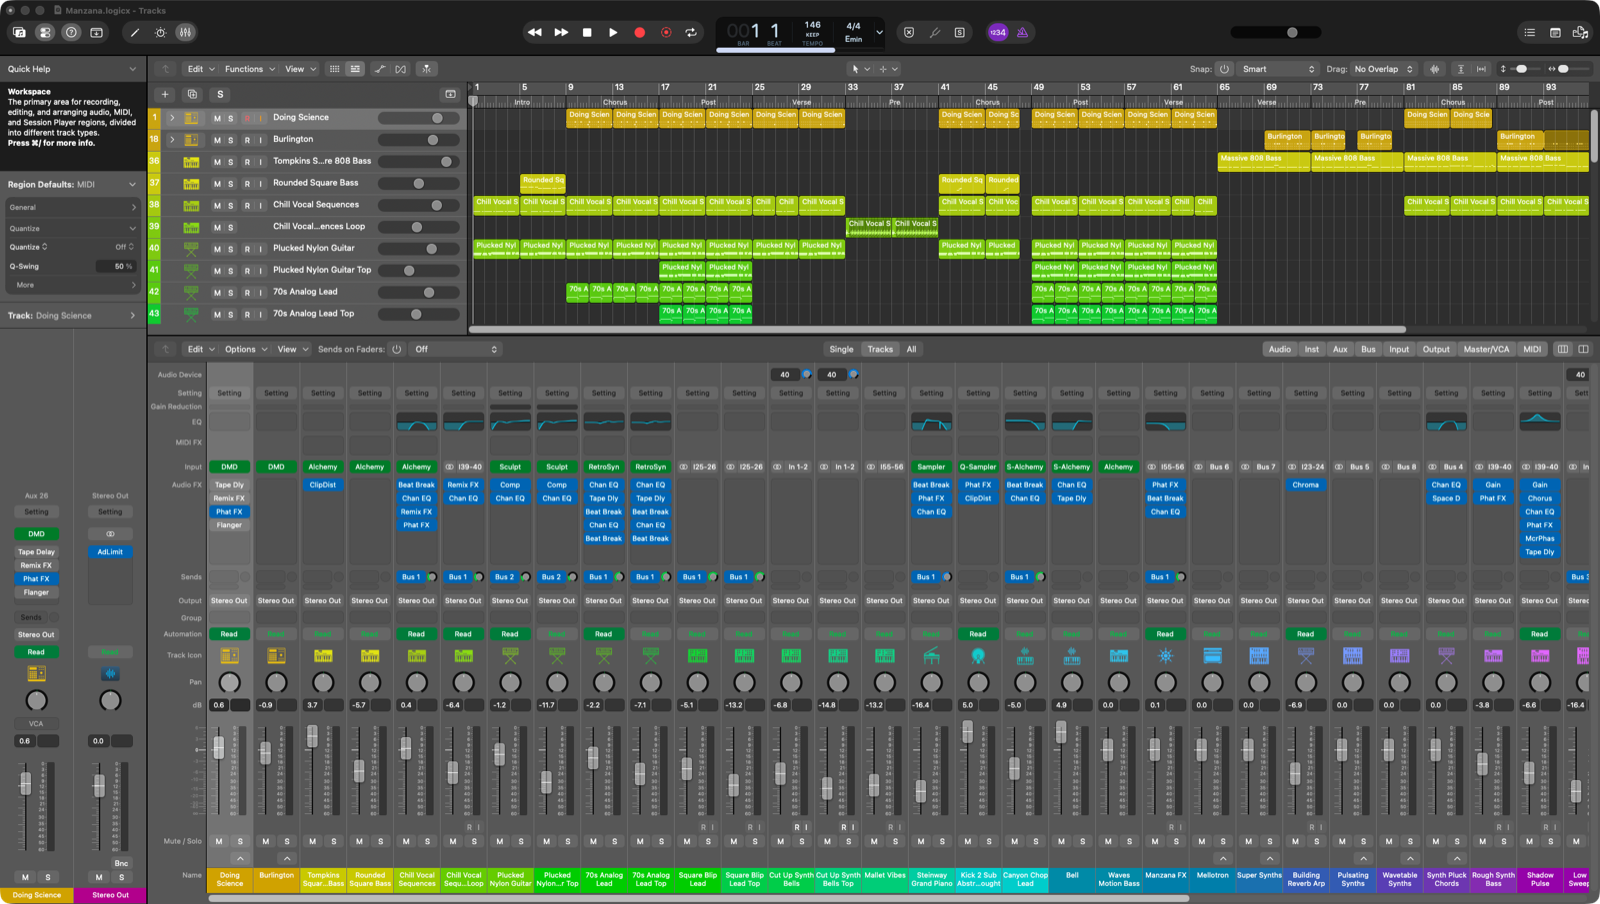
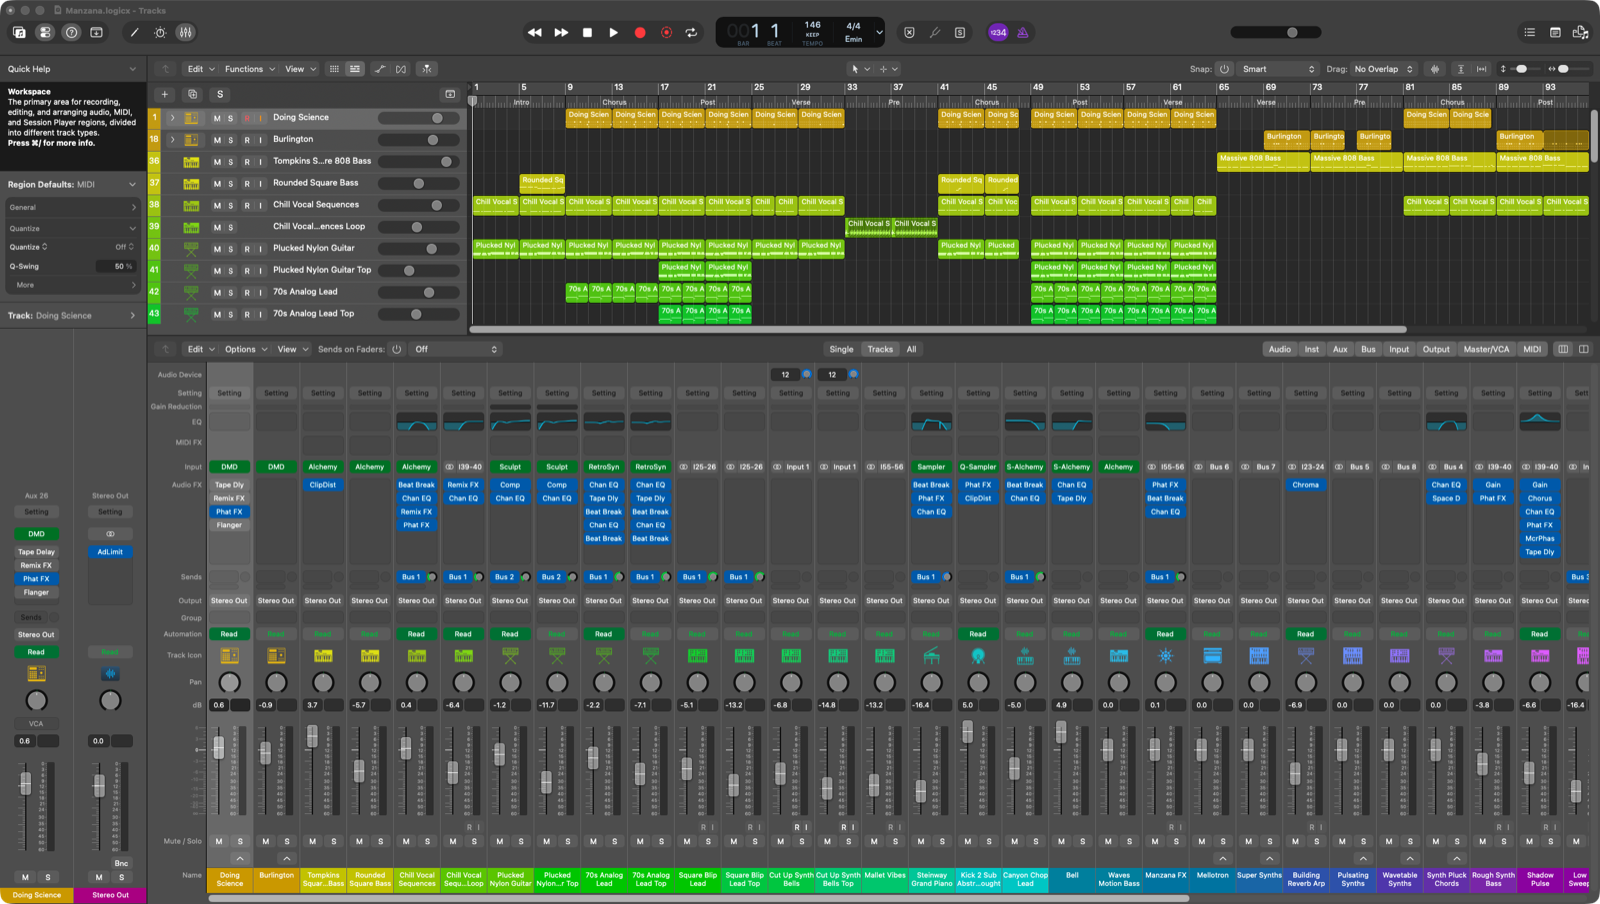
fix: Make the title bar gray in Classic mode (#17)

diff --git a/theme/light-theme.m b/theme/light-theme.m
@@ -399,6 +399,8 @@ static CGColorRef copyClassicColor(CGColorRef color, NSString *name) {
          @"GlobalTracksBackground": @"Colors/RulerColor",
          @"BackgroundViewControlbar": @"Colors/PanelHeaderColor",
          @"BackgroundLocalMenubar": @"Colors/PanelHeaderColor",
+         // The only black that classic mode changes. The control bar line and the pane dividers use it.
+         @"DividerDarkStrong": @"Colors/MainWindow/BackgroundBottomLineGray",
          @"ChannelstripBackground": @"Colors/TrackHeader/Background",
          @"ChannelstripBackgroundSelected": @"Colors/TrackHeader/SelectedBackground",
       };
@@ -1272,13 +1274,15 @@ static void hookButtonImage(NSButtonCell *cell, SEL sel, NSImage *image, NSRect 
    ((void (*)(id, SEL, NSImage *, NSRect, NSView *))origButtonImage)(cell, sel, isActive ? whiteGlyph(image) : image, frame, view);
 }
 
-// The macOS 26 title bar is glass, which is white in Aqua. A transparent title bar shows the
-// window background. The main window uses the mapped BackgroundViewControlbar color, but the
-// editor windows use the system windowBackgroundColor, which the theme does not map.
+// The macOS 26 title bar is glass, which is white in Aqua and near black in DarkAqua. A
+// transparent title bar shows the window background. The main window uses the mapped
+// BackgroundViewControlbar color. The editor windows use the system windowBackgroundColor,
+// which the light theme does not map, so they get BackgroundViewControlbar too. Classic mode
+// keeps the dark system gray, so it does not change the window background.
 static void hookOrderWindow(NSWindow *window, SEL sel, NSWindowOrderingMode place, NSInteger other) {
    if (place != NSWindowOut && (window.styleMask & NSWindowStyleMaskTitled) && !window.titlebarAppearsTransparent) {
       window.titlebarAppearsTransparent = YES;
-      if ([window.backgroundColor isEqual:NSColor.windowBackgroundColor]) {
+      if (!isClassic && [window.backgroundColor isEqual:NSColor.windowBackgroundColor]) {
          window.backgroundColor = [NSColor colorNamed:@"BackgroundViewControlbar"];
       }
    }
@@ -1601,6 +1605,8 @@ __attribute__((constructor)) static void start(void) {
    isClassic = readSetting("LP_CLASSIC", @"classic", 0, 0, 1) >= 0.5;
    if (isClassic) {
       origCGColor = swapInstanceMethod(NSClassFromString(@"CUINamedColor"), @selector(cgColor), (IMP)hookCGColor);
+      // The dark glass title bar is near black. A transparent title bar shows the classic gray.
+      origOrderWindow = swapInstanceMethod([NSWindow class], @selector(orderWindow:relativeTo:), (IMP)hookOrderWindow);
       reportStart();
       if (getenv("LP_OUT")) {
          outDir = [NSString stringWithUTF8String:getenv("LP_OUT")];

diff --git a/AGENTS.md b/AGENTS.md
@@ -86,14 +86,14 @@ All theme code is in `theme/light-theme.m`. The constructor `start()` installs e
 - Appearance: `+[NSAppearance appearanceNamed:]` maps the dark names to light names, and `NSApp.appearance` stays `Aqua`.
 - Catalog colors: `-[CUINamedColor cgColor]` is the path for both AppKit and SwiftUI. `copyMappedColor` decides the result by color name. It tries `isBrightVariant`, `fixedGray`, `isAccent`, `isWell`, `isTransportText` and the gray mapping, in that order. Saturated colors do not change. Only the names with one appearance are mapped. At the first launch of each Logic Pro build, `listSingleAppearanceNames` reads them from the Logic Pro catalogs with `/usr/bin/assetutil`. It keeps them in `~/Library/Caches/io.github.karlingen.i-see-logic-pro`.
 - Gray mapping: `mapGray` calls `mapGrayLevel` in `theme/gray-rule.h`, which returns `surfaceMax * pow(1 - white, gamma)`. That header also holds the limits, `SELECTED_ROW_WHITE` and the preferences domain. `readSetting` reads the values from the environment (`LP_SURFACE_MAX`, `LP_GAMMA` and `LP_CONTRAST`) or else from the preferences domain `SETTINGS_DOMAIN`. `readTint` reads the tint, "r,g,b", from `LP_TINT` or else from the key `tint`. `tintGray` multiplies each mapped gray by the tint, so dark text gets almost no hue.
-- Classic mode: if the key `classic` or `LP_CLASSIC` is 1, `start()` installs only the `cgColor` hook, and `copyClassicColor` replaces `copyMappedColor`. Logic Pro 13 still ships the 247 `Colors/` names of Logic Pro 12 in `MAResources.framework`, with the Logic Pro 12 values. `copyClassicColor` maps some flat names to them, for example `TrackHeaderBackground` to `Colors/TrackHeader/Background`. The `NSColor` of a `Colors/` name also comes through the hook, so the function returns those names unchanged. Other opaque grays go through `mapClassicLevel` in `theme/gray-rule.h`. The function also fixes two Mixer colors: the Setting button text is black, and the overlay of empty slots is lighter. The repository holds no Apple color data.
+- Classic mode: if the key `classic` or `LP_CLASSIC` is 1, `start()` installs only the `cgColor` hook and `hookOrderWindow`, and `copyClassicColor` replaces `copyMappedColor`. Logic Pro 13 still ships the 247 `Colors/` names of Logic Pro 12 in `MAResources.framework`, with the Logic Pro 12 values. `copyClassicColor` maps some flat names to them, for example `TrackHeaderBackground` to `Colors/TrackHeader/Background`. The `NSColor` of a `Colors/` name also comes through the hook, so the function returns those names unchanged. Other opaque grays go through `mapClassicLevel` in `theme/gray-rule.h`. The function also fixes two Mixer colors: the Setting button text is black, and the overlay of empty slots is lighter. The dark glass title bar is near black, so `hookOrderWindow` makes it transparent, and the classic `BackgroundViewControlbar` shows through. The black `DividerDarkStrong` line under the control bar and between the panes gets the Logic Pro 12 bottom line gray. The repository holds no Apple color data.
 - Launcher: `app/ISeeLogicPro.swift` is a SwiftUI app. It stores seven settings with `@AppStorage`. Their keys are `surfaceMax`, `gamma`, `contrast`, `tint`, `classic`, `themeOff` and `autoStart`. The theme reads them, so the bundle identifier of the app must be equal to `SETTINGS_DOMAIN_NAME`. If `themeOff` is true (the Stock row), the app starts Logic Pro without the library. If `autoStart` is true, the app counts down and then starts Logic Pro, but only if the status line shows no warning. Check for Updates reads the latest release from the GitHub API. The app never replaces itself. It imports `theme/gray-rule.h` with `-import-objc-header`, so its preview and slider limits use the same rule and limits as the theme. `app/build.sh` reads the bundle identifier from the same header. The stock grays of the preview come from a render of Logic Pro without the theme. `app/build.sh` reads `TESTED_LOGIC_BUILD` from the same header and stores it in the app, and the app compares it with the installed Logic Pro. If the two are different, the app shows a warning. `app/AppIcon.swift` draws the app icon, and `app/build.sh` turns it into `AppIcon.icns`. Do not copy the Logic Pro icon or any other Apple artwork into the icon. At launch, the app removes the download quarantine flag from its own library. Then macOS does not show a second warning at the start of Logic Pro.
 - Literal colors: if the caller is inside the Logic Pro bundle, the `NSColor` factory hooks (`WHITE_HOOK`, `RGB_HOOK`, `NAMED_HOOK`) map grays. `addImage` records those code ranges and `isLogicCaller` checks them. `DARKENED_LITERALS` lists saturated literals that must change.
 - Images: `copyRecoloredImage` changes pixels by `ImageStyle`. Named assets pass through `MAAssetManager` and `assetStyle`. Track header images come from a C++ cache and have no names, so `drawStyle` identifies them by size and call stack, once per image. `MADrawingThreePartImage` draws the center piece of the volume slider from the best rep of the image. That rep is an `NSImageRepGeometryProxy` with its own draw method, so `hookBestRep` returns the rep of the recolored image. The results stay in associated objects.
 - Nibs: `hookNibDecode` maps literal cell colors and `hookAppearanceDecode` maps a stored `DarkAqua`. Nib decoding skips the factory hooks and `+appearanceNamed:`.
 - Text fields: `hookFieldBackground` maps opaque dark grays that Logic passes to `-[NSTextField setBackgroundColor:]`, for example in the track rename field. Logic also gives the same gray to `-[MATextFieldCell setNSBackgroundColor:]`, which puts it behind each character in the field editor, so `hookCellBackground` maps it too. `mappedGrayColor` holds the gray rule for these hooks and the nib hook.
 - Buttons: `hookToolbarImage` and `hookButtonImage` keep glyphs white on active colored fills. In the track header, `repOnBevel` and `interposeFillColor` do this at draw time.
-- Title bar: on macOS 26, system glass draws the title bar, and it is white in `Aqua`. If `surfaceMax` is below 1, `hookOrderWindow` makes each titled window's title bar transparent, so the window background shows through. Editor windows such as the Piano Roll and the Mixer use the system `windowBackgroundColor`, so the hook gives them the mapped `BackgroundViewControlbar` instead. The toolbar groups sit on glass platters, which are near white. `hookPlatterLayout` makes the `NSGlassContainerView` that renders them partly transparent. A tint or an opacity on a platter does not change their lightness.
+- Title bar: on macOS 26, system glass draws the title bar. It is white in `Aqua` and near black in `DarkAqua`. If `surfaceMax` is below 1 or Classic mode is on, `hookOrderWindow` makes each titled window's title bar transparent, so the window background shows through. Editor windows such as the Piano Roll and the Mixer use the system `windowBackgroundColor`. In the light theme, the hook gives them the mapped `BackgroundViewControlbar` instead. In Classic mode, they keep the dark system gray. The toolbar groups sit on glass platters, which are near white. `hookPlatterLayout` makes the `NSGlassContainerView` that renders them partly transparent. A tint or an opacity on a platter does not change their lightness.
 - System colors: the theme maps only Logic catalog colors, because system colors do not pass through `-[CUINamedColor cgColor]`. If `surfaceMax` is below 1, `hookClipBackground` replaces the system `controlBackgroundColor` of clip views with a gray at `surfaceMax`. Legacy scroller tracks show this color.
 - Special cases: `interposeDrawPath` recolors region outlines. `interposeLineDraw` maps the marker names in the ruler. `PrintMarkerText` gives them a fixed white, so the hook draws the text as a clip and fills it with the mapped gray. The `CTooltipView` hooks keep help tag text white. The `CLgNotesTextView` hooks make note text black. `MAContentBrowserUI` forces the dark SwiftUI color scheme, so `rebindDarkScheme` points its import of `ColorScheme.dark` at `ColorScheme.light`. This makes the Browser popovers light, for example All Filters.
 

diff --git a/CHANGELOG.md b/CHANGELOG.md
@@ -2,6 +2,13 @@
 
 This file lists the changes in each release of I See Logic Pro. The newest release is first.
 
+## Unreleased
+
+### Fixed
+
+- In Classic mode, the title bar and the control bar at the top of the window are gray, not black.
+- In Classic mode, the line below the control bar and the lines between the panes are dark gray, not black.
+
 ## 1.4.0 (2026-11-25)
 
 ### Added
